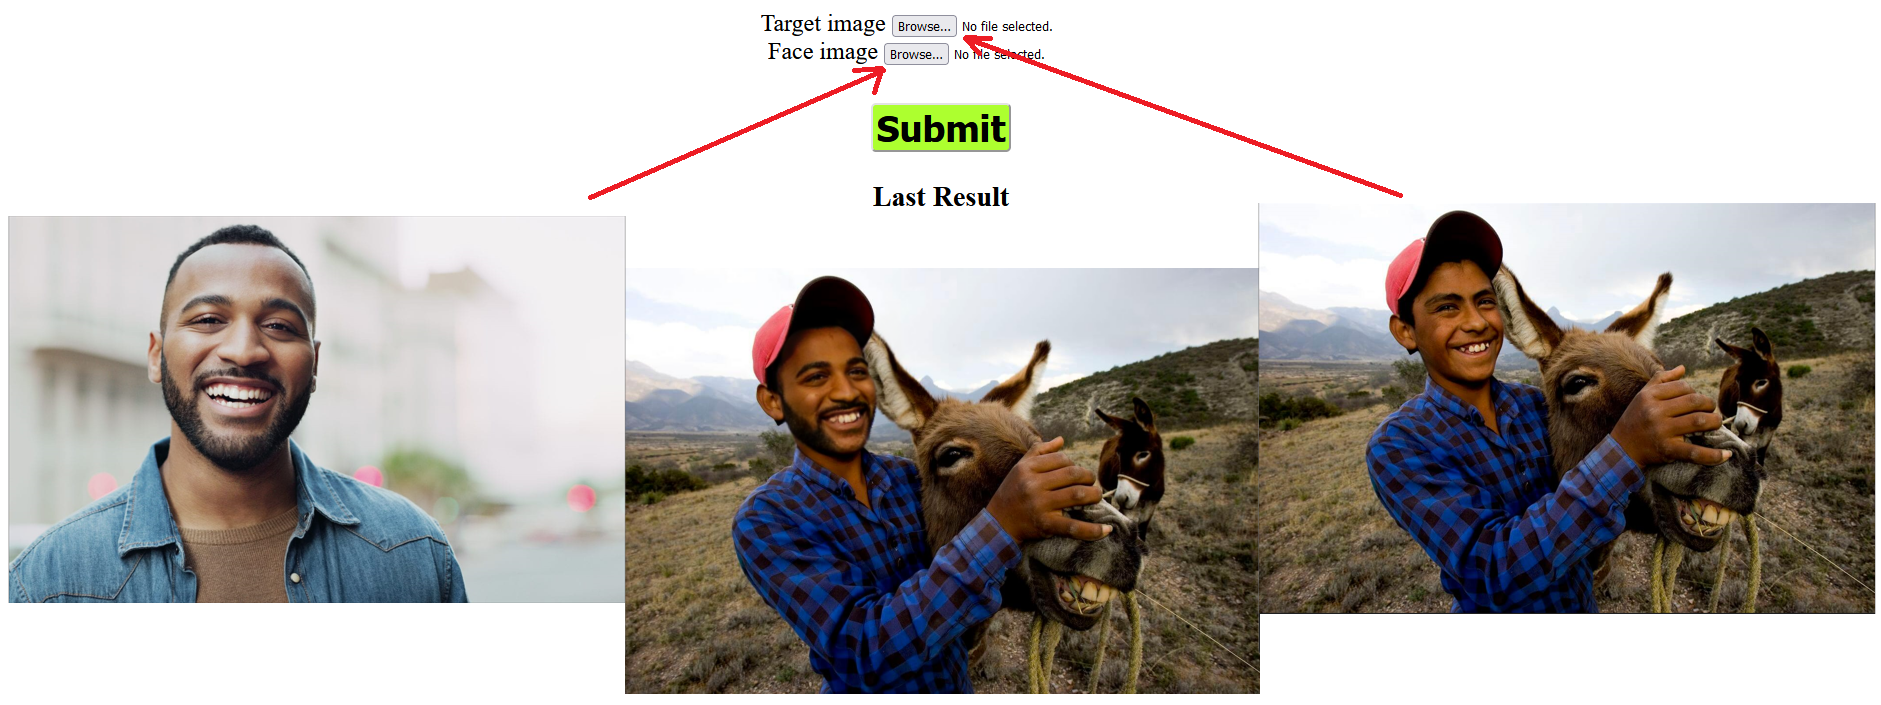
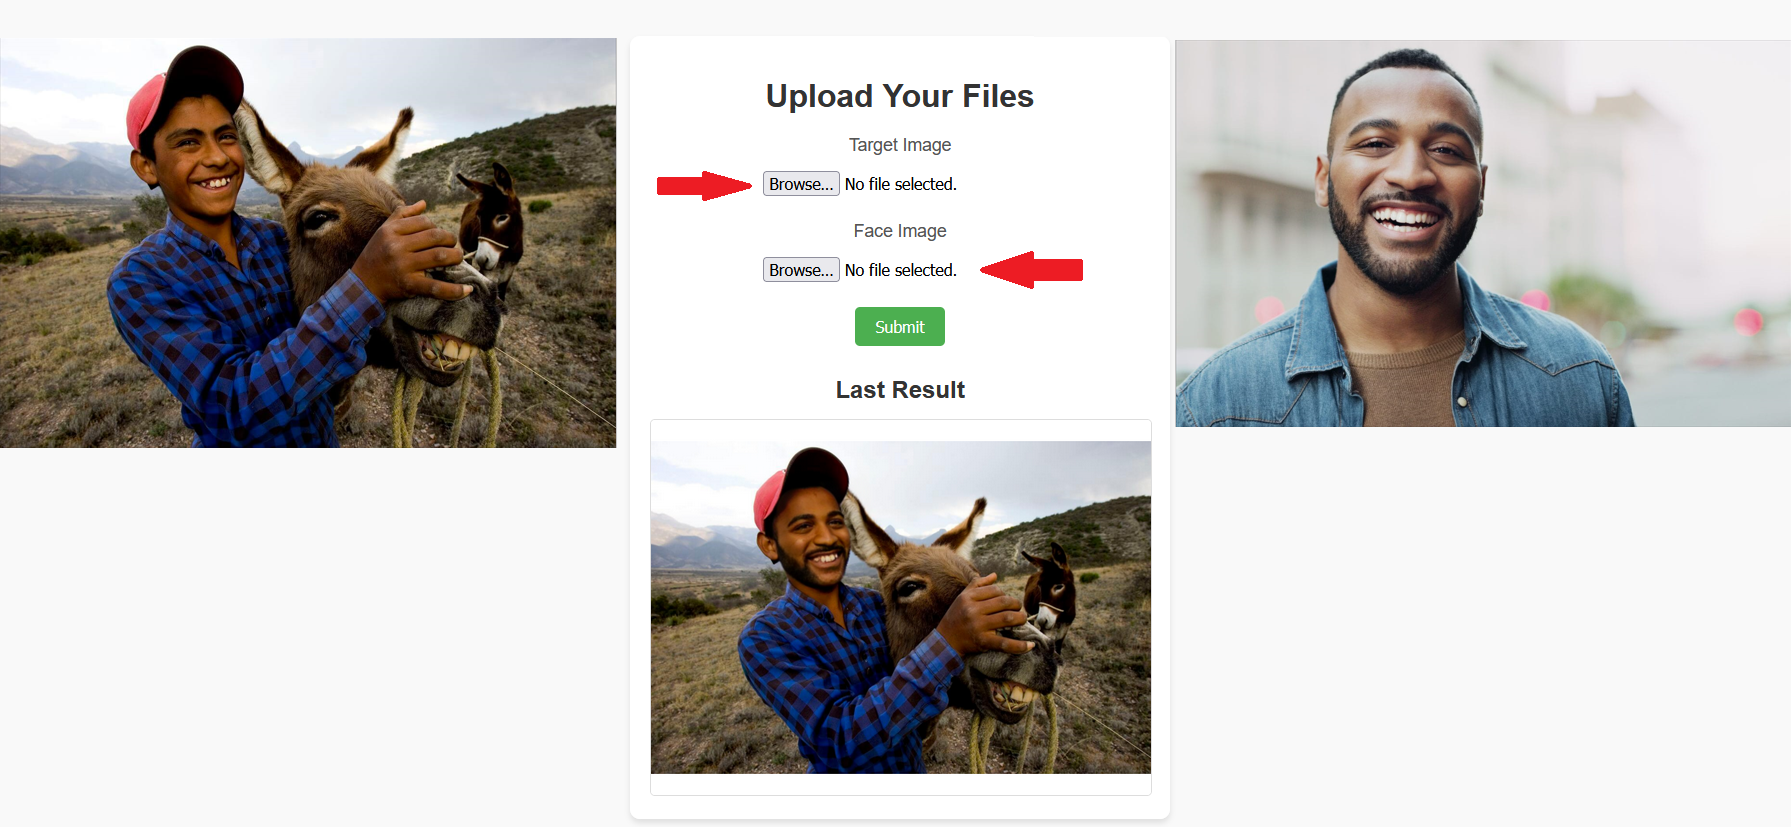
design adjustments

diff --git a/templates/index.html b/templates/index.html
@@ -7,48 +7,100 @@
     <meta name="viewport" content="width=device-width, initial-scale=1.0">
     <title>File Upload Example</title>
     <style>
-        .ok {
-
-            font-size: 1.5em;
-            text-align: center;
-            margin-bottom: 5%;
-            margin-top: 2%
+        body {
+            font-family: Arial, sans-serif;
+            background-color: #f9f9f9;
+            margin: 0;
+            padding: 0;
+            display: flex;
+            justify-content: center;
+            align-items: center;
+            height: 100vh;
         }
 
-        .op {
-            font-size: 1.5em;
-            font-weight: bold;
-            background-color: greenyellow;
-            border-radius: 5px;
-            cursor: pointer;
+        .container {
+            background: #ffffff;
+            box-shadow: 0 4px 6px rgba(0, 0, 0, 0.1);
+            border-radius: 10px;
+            width: 100%;
+            max-width: 500px;
+            padding: 20px;
             text-align: center;
-            margin-top: 2%;
+        }
+
+        h1 {
+            font-size: 2em;
+            color: #333;
+            margin-bottom: 20px;
+        }
+
+        label {
+            font-size: 1.1em;
+            display: block;
+            margin-bottom: 10px;
+            color: #555;
+        }
+
+        input[type="file"] {
+            margin-bottom: 20px;
+            font-size: 1em;
+            padding: 5px;
+        }
+
+        .button {
+            background-color: #4CAF50;
+            color: white;
+            padding: 10px 20px;
+            border: none;
+            border-radius: 5px;
+            font-size: 1em;
+            cursor: pointer;
+            transition: background-color 0.3s ease;
+        }
+
+        .button:hover {
+            background-color: #45a049;
+        }
+
+        .result {
+            margin-top: 30px;
+        }
+
+        .result h3 {
+            font-size: 1.5em;
+            color: #333;
+            margin-bottom: 15px;
+        }
+
+        .result img {
+            max-width: 100%;
+            border: 1px solid #ddd;
+            border-radius: 5px;
         }
     </style>
 </head>
 
 <body>
-    <div class="ok">
+    <div class="container">
+        <h1>Upload Your Files</h1>
         <form method="POST" action="/" enctype="multipart/form-data">
             <div>
-                <div><label for="file1">Target image</label>
-                    <input type="file" name="file1">
-                </div>
-                <div>
-                    <label for="file2">Face image</label>
-                    <input type="file" name="file2">
-                </div>
+                <label for="file1">Target Image</label>
+                <input type="file" name="file1" id="file1" required>
             </div>
             <div>
-                <button class="op">Submit</button>
+                <label for="file2">Face Image</label>
+                <input type="file" name="file2" id="file2" required>
             </div>
-        </form>{%if result%}
-        <div>
-            <h3>Last Result</h2>
-                <img src="{{result}}" alt="Result_Image">
-        </div>{%endif%}
+            <button class="button" type="submit">Submit</button>
+        </form>
+        {% if result %}
+        <div class="result">
+            <h3>Result</h3>
+            <img src="{{result}}" alt="Result Image">
+        </div>
+        {% endif %}
     </div>
-
 </body>
 
 </html>
